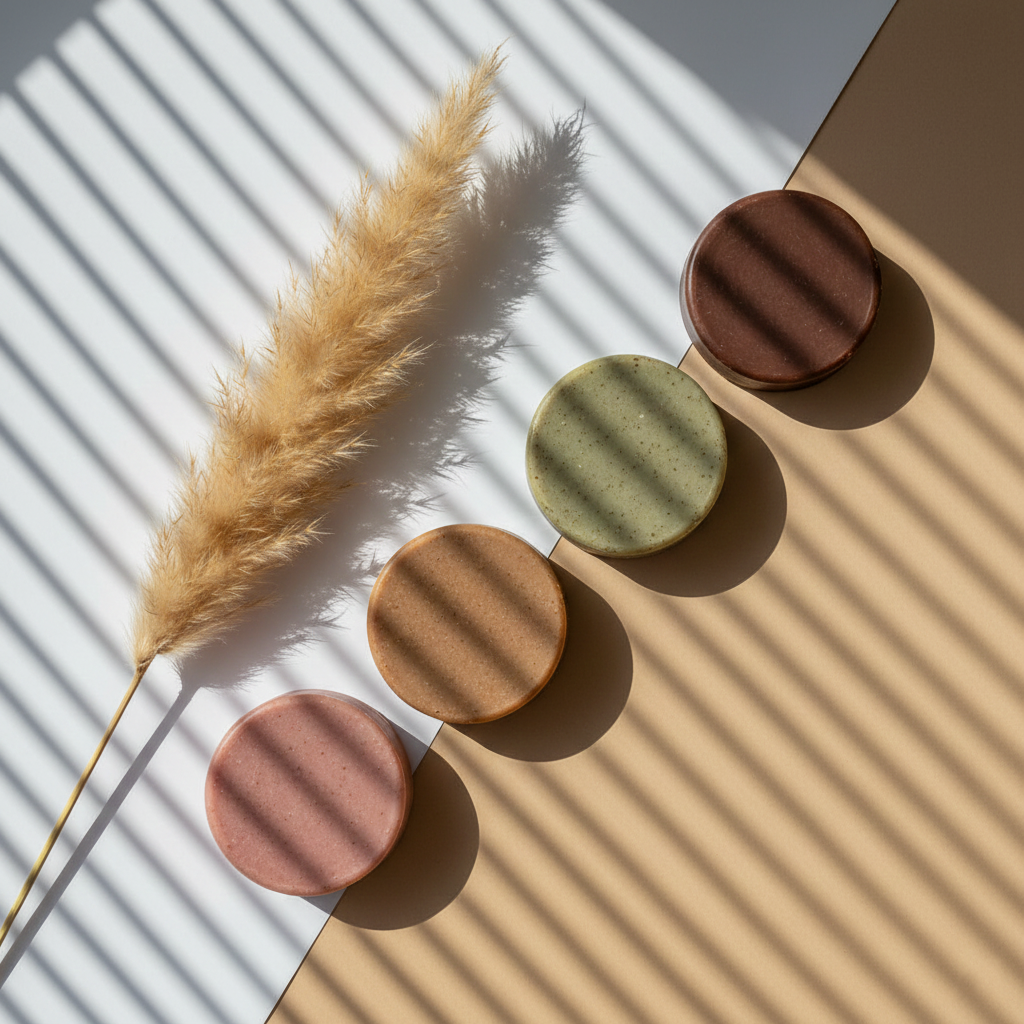
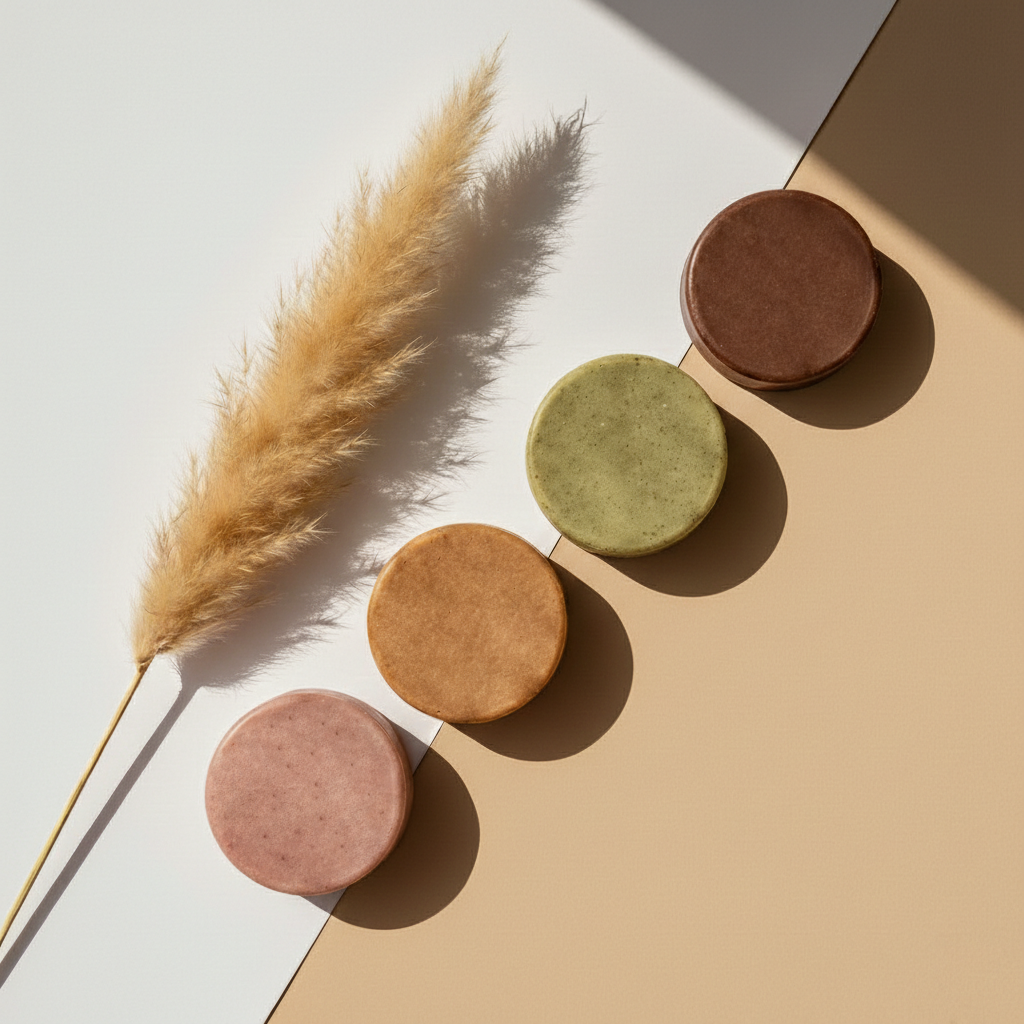
About page: new French narrative, timeline 2021-2026, mission block, relation clients; update images

diff --git a/src/pages/about.tsx b/src/pages/about.tsx
@@ -3,60 +3,33 @@ import Image from 'next/image';
 import Link from 'next/link';
 import { motion, useScroll, useTransform } from 'framer-motion';
 import { useRef } from 'react';
-import { fadeInUp, fadeInLeft, fadeInRight, staggerContainer } from '@/components/variants';
-import { Leaf, Heart, Globe, Sparkles, ArrowRight } from 'lucide-react';
+import { fadeInUp, staggerContainer } from '@/components/variants';
+import { ArrowRight } from 'lucide-react';
 
 const story = [
   {
-    year: '2018',
-    title: 'Le Commencement',
-    description:
-      'Fondée au cœur de Marrakech, Nadara est née d\'un profond amour pour les traditions botaniques marocaines et d\'une vision de les partager avec le monde.',
-  },
-  {
-    year: '2019',
-    title: 'Première Collection',
-    description:
-      'Lancement de nos collections signature Argan et Rose, en partenariat direct avec des coopératives dirigées par des femmes dans les montagnes de l\'Atlas.',
-  },
-  {
     year: '2021',
-    title: 'Portée Mondiale',
+    title: 'Naissance de l\'idée',
     description:
-      'Expansion pour servir les clients à travers l\'Europe, l\'Amérique du Nord et le Moyen-Orient, en restant fidèles à nos racines artisanales.',
+      'Au départ, ce n\'était pas un projet commercial, mais une passion sincère pour le naturel, la beauté et la création artisanale. L\'envie de comprendre, d\'apprendre et de fabriquer des soins simples, sains et efficaces a été le premier pas vers cette aventure. Et face aux difficultés souvent rencontrées avec les produits industriels, des compositions complexes, des promesses marketing parfois exagérées, des prix parfois très élevés ou bien des produits trop agressifs surtout pour les peaux sensibles, la réflexion s\'est imposée.',
+  },
+  {
+    year: '2022',
+    title: 'Commencement',
+    description:
+      'Les premiers mois ont été consacrés à la recherche et à l\'expérimentation. Tester des recettes, découvrir les bienfaits des poudres végétales, des huiles naturelles et des actifs doux pour la peau et les cheveux. Chaque formule était préparée avec patience, souvent recommencée, améliorée, ajustée jusqu\'à obtenir une qualité satisfaisante.',
   },
   {
     year: '2024',
-    title: 'Engagement Qualité',
+    title: 'Création de la coopérative Nadara',
     description:
-      'Renforcement de notre engagement envers la qualité et l\'authenticité, en préservant les méthodes traditionnelles de fabrication.',
-  },
-];
-
-const values = [
-  {
-    icon: Leaf,
-    title: 'Ingrédients Purs',
-    description:
-      'Nous ne transigeons jamais sur la qualité. Chaque ingrédient est soigneusement sélectionné, biologique et traçable jusqu\'à son origine.',
+      'Le choix du nom Nadara est inspiré de la pureté, la nature, la douceur et l\'authenticité. Et voilà, les produits Nadara entre les mains des clients, la gamme s\'est élargie avec l\'arrivée de nouveaux soins : sérums, poudres naturelles, shampoings solides, crèmes pour le corps et les cheveux. La qualité est devenue une priorité absolue, avec des fabrications en petites quantités pour garantir la fraîcheur et la pureté des produits.',
   },
   {
-    icon: Heart,
-    title: 'Communauté d\'Abord',
+    year: '2026',
+    title: 'Présence en ligne',
     description:
-      'Nous soutenons les communautés marocaines locales, en payant des salaires équitables et en investissant dans l\'éducation et les infrastructures.',
-  },
-  {
-    icon: Globe,
-    title: 'Planète Positive',
-    description:
-      'Des formules biodégradables aux emballages écologiques, la durabilité guide chaque décision que nous prenons.',
-  },
-  {
-    icon: Sparkles,
-    title: 'Sagesse Intemporelle',
-    description:
-      'Nous honorons des siècles de connaissances en beauté, en mélangeant les recettes ancestrales avec la science moderne des soins de la peau.',
+      'Puis est venu le moment de franchir un nouveau cap : la présence en ligne. La création du site a donné à Nadara une vitrine, un espace pour raconter son histoire, présenter ses produits et partager sa vision d\'une beauté plus naturelle et plus consciente.',
   },
 ];
 
@@ -129,67 +102,46 @@ export default function AboutPage() {
 
       {/* Introduction */}
       <section className="section-padding bg-cream-50">
-        <div className="container-custom">
-          <div className="grid grid-cols-1 lg:grid-cols-2 gap-12 lg:gap-20 items-center">
-            <motion.div
-              initial="hidden"
-              whileInView="visible"
-              viewport={{ once: true }}
-              variants={fadeInLeft}
-            >
-              <span className="text-sm font-sans tracking-[0.3em] uppercase text-olive-600 mb-4 block">
-                La Promesse Nadara
-              </span>
-              <h2 className="heading-lg text-charcoal-900 mb-6">
-                Où la Sagesse Ancienne Rencontre la{' '}
-                <span className="italic">Beauté Moderne</span>
-              </h2>
-              <div className="space-y-4 text-charcoal-600 font-sans leading-relaxed">
-                <p>
-                  Nadara a été fondée sur une croyance simple : que les soins de la peau les plus efficaces
-                  proviennent de la nature elle-même. Notre voyage a commencé dans les
-                  vallées ensoleillées du Maroc, où des générations de femmes ont
-                  gardé les secrets de la beauté botanique.
-                </p>
-                <p>
-                  Nous travaillons directement avec des coopératives dirigées par des femmes, garantissant des pratiques de
-                  commerce équitable tout en préservant les méthodes d'extraction traditionnelles
-                  qui ont été perfectionnées au fil des siècles. Chaque goutte de nos huiles,
-                  chaque gramme de nos masques d'argile, porte l'essence de ce
-                  patrimoine.
-                </p>
-                <p>
-                  Aujourd'hui, Nadara apporte ces trésors à des clients exigeants
-                  dans le monde entier, sans jamais compromettre la pureté, la puissance ou notre
-                  engagement envers la planète.
-                </p>
-              </div>
-            </motion.div>
+        <div className="container-custom max-w-3xl mx-auto">
+          <motion.div
+            initial="hidden"
+            whileInView="visible"
+            viewport={{ once: true }}
+            variants={staggerContainer}
+            className="space-y-6 text-charcoal-600 font-sans leading-relaxed"
+          >
+            <motion.p variants={fadeInUp}>
+              Depuis toujours, je crois que la vraie beauté ne se cache pas dans les produits compliqués, mais dans la simplicité, la pureté et les trésors que la nature nous offre. Au fil des années, j'ai découvert la richesse des traditions marocaines : les poudres végétales, les huiles pressées à froid, les plantes utilisées par nos mères et nos grands-mères pour prendre soin de leur peau et de leurs cheveux. Alors ces rituels anciens, transmis avec amour, sont devenus une source d'inspiration.
+            </motion.p>
+            <motion.p variants={fadeInUp}>
+              Mais Nadara n'est pas seulement une marque, c'est une histoire de cœur, de patience, d'apprentissage et de création faite à la main, produit par produit, avec l'envie sincère d'offrir des soins sains, doux et efficaces.
+            </motion.p>
+            <motion.p variants={fadeInUp}>
+              Chaque savon, chaque sérum, chaque soin est fabriqué en petite quantité, avec attention et respect, pour préserver la qualité et la pureté des ingrédients. Derrière chaque formule, il y a une intention : aider chaque femme à se sentir belle, confiante et bien dans sa peau, naturellement.
+            </motion.p>
+            <motion.p variants={fadeInUp}>
+              Nadara signifie le retour à l'essentiel, le retour à une beauté vraie, une beauté qui respire, qui soigne et qui révèle l'éclat naturel de chaque peau.
+            </motion.p>
+          </motion.div>
 
-            <motion.div
-              initial="hidden"
-              whileInView="visible"
-              viewport={{ once: true }}
-              variants={fadeInRight}
-              className="relative"
-            >
-              <div className="relative aspect-[4/5] rounded-sm overflow-hidden">
-                <Image
-                  src="https://images.unsplash.com/photo-1617897903246-719242758050?w=800&q=80"
-                  alt="Ingrédients de beauté marocains"
-                  fill
-                  className="object-cover"
-                />
-              </div>
-              <motion.div
-                className="absolute -bottom-8 -left-8 w-48 h-48 bg-olive-100 rounded-sm -z-10"
-                initial={{ opacity: 0, scale: 0.8 }}
-                whileInView={{ opacity: 1, scale: 1 }}
-                viewport={{ once: true }}
-                transition={{ delay: 0.3 }}
-              />
-            </motion.div>
-          </div>
+          {/* Mission block */}
+          <motion.div
+            initial="hidden"
+            whileInView="visible"
+            viewport={{ once: true }}
+            variants={fadeInUp}
+            className="mt-16 pt-12 border-t border-beige-300 text-center"
+          >
+            <p className="font-serif text-xl text-charcoal-900 mb-6">
+              Nadara est née pour accompagner chaque femme dans sa beauté naturelle.
+            </p>
+            <p className="text-charcoal-600 font-sans italic mb-2">
+              Pas pour transformer, mais pour révéler.
+            </p>
+            <p className="text-charcoal-600 font-sans italic">
+              Pas pour masquer, mais pour sublimer.
+            </p>
+          </motion.div>
         </div>
       </section>
 
@@ -263,59 +215,17 @@ export default function AboutPage() {
         </div>
       </section>
 
-      {/* Values */}
-      <section id="ingredients" className="section-padding bg-olive-50">
-        <div className="container-custom">
-          <motion.div
-            initial="hidden"
-            whileInView="visible"
+      {/* Relation clients */}
+      <section className="section-padding bg-olive-50">
+        <div className="container-custom max-w-3xl mx-auto">
+          <motion.p
+            initial={{ opacity: 0, y: 20 }}
+            whileInView={{ opacity: 1, y: 0 }}
             viewport={{ once: true }}
-            variants={staggerContainer}
-            className="text-center mb-16"
+            className="text-charcoal-700 font-sans leading-relaxed text-center"
           >
-            <motion.span
-              variants={fadeInUp}
-              className="text-sm font-sans tracking-[0.3em] uppercase text-olive-600 mb-4 block"
-            >
-              Ce Pour Quoi Nous Nous Battons
-            </motion.span>
-            <motion.h2
-              variants={fadeInUp}
-              className="heading-lg text-charcoal-900"
-            >
-              Nos Valeurs <span className="italic">Fondamentales</span>
-            </motion.h2>
-          </motion.div>
-
-          <motion.div
-            initial="hidden"
-            whileInView="visible"
-            viewport={{ once: true }}
-            variants={staggerContainer}
-            className="grid grid-cols-1 md:grid-cols-2 gap-8 lg:gap-12"
-          >
-            {values.map((value, index) => (
-              <motion.div
-                key={value.title}
-                variants={fadeInUp}
-                className="bg-white p-8 lg:p-10 rounded-sm"
-              >
-                <motion.div
-                  className="w-14 h-14 flex items-center justify-center bg-olive-100 text-olive-700 rounded-full mb-6"
-                  whileHover={{ scale: 1.1, rotate: 10 }}
-                  transition={{ type: 'spring', stiffness: 300 }}
-                >
-                  <value.icon className="w-6 h-6" />
-                </motion.div>
-                <h3 className="font-serif text-xl text-charcoal-900 mb-3">
-                  {value.title}
-                </h3>
-                <p className="text-charcoal-600 font-sans leading-relaxed">
-                  {value.description}
-                </p>
-              </motion.div>
-            ))}
-          </motion.div>
+            La relation avec nos clients ne se limite pas à la vente d'un produit. Elle repose sur la confiance, la transparence, la communication honnête et l'engagement durable.
+          </motion.p>
         </div>
       </section>
 
